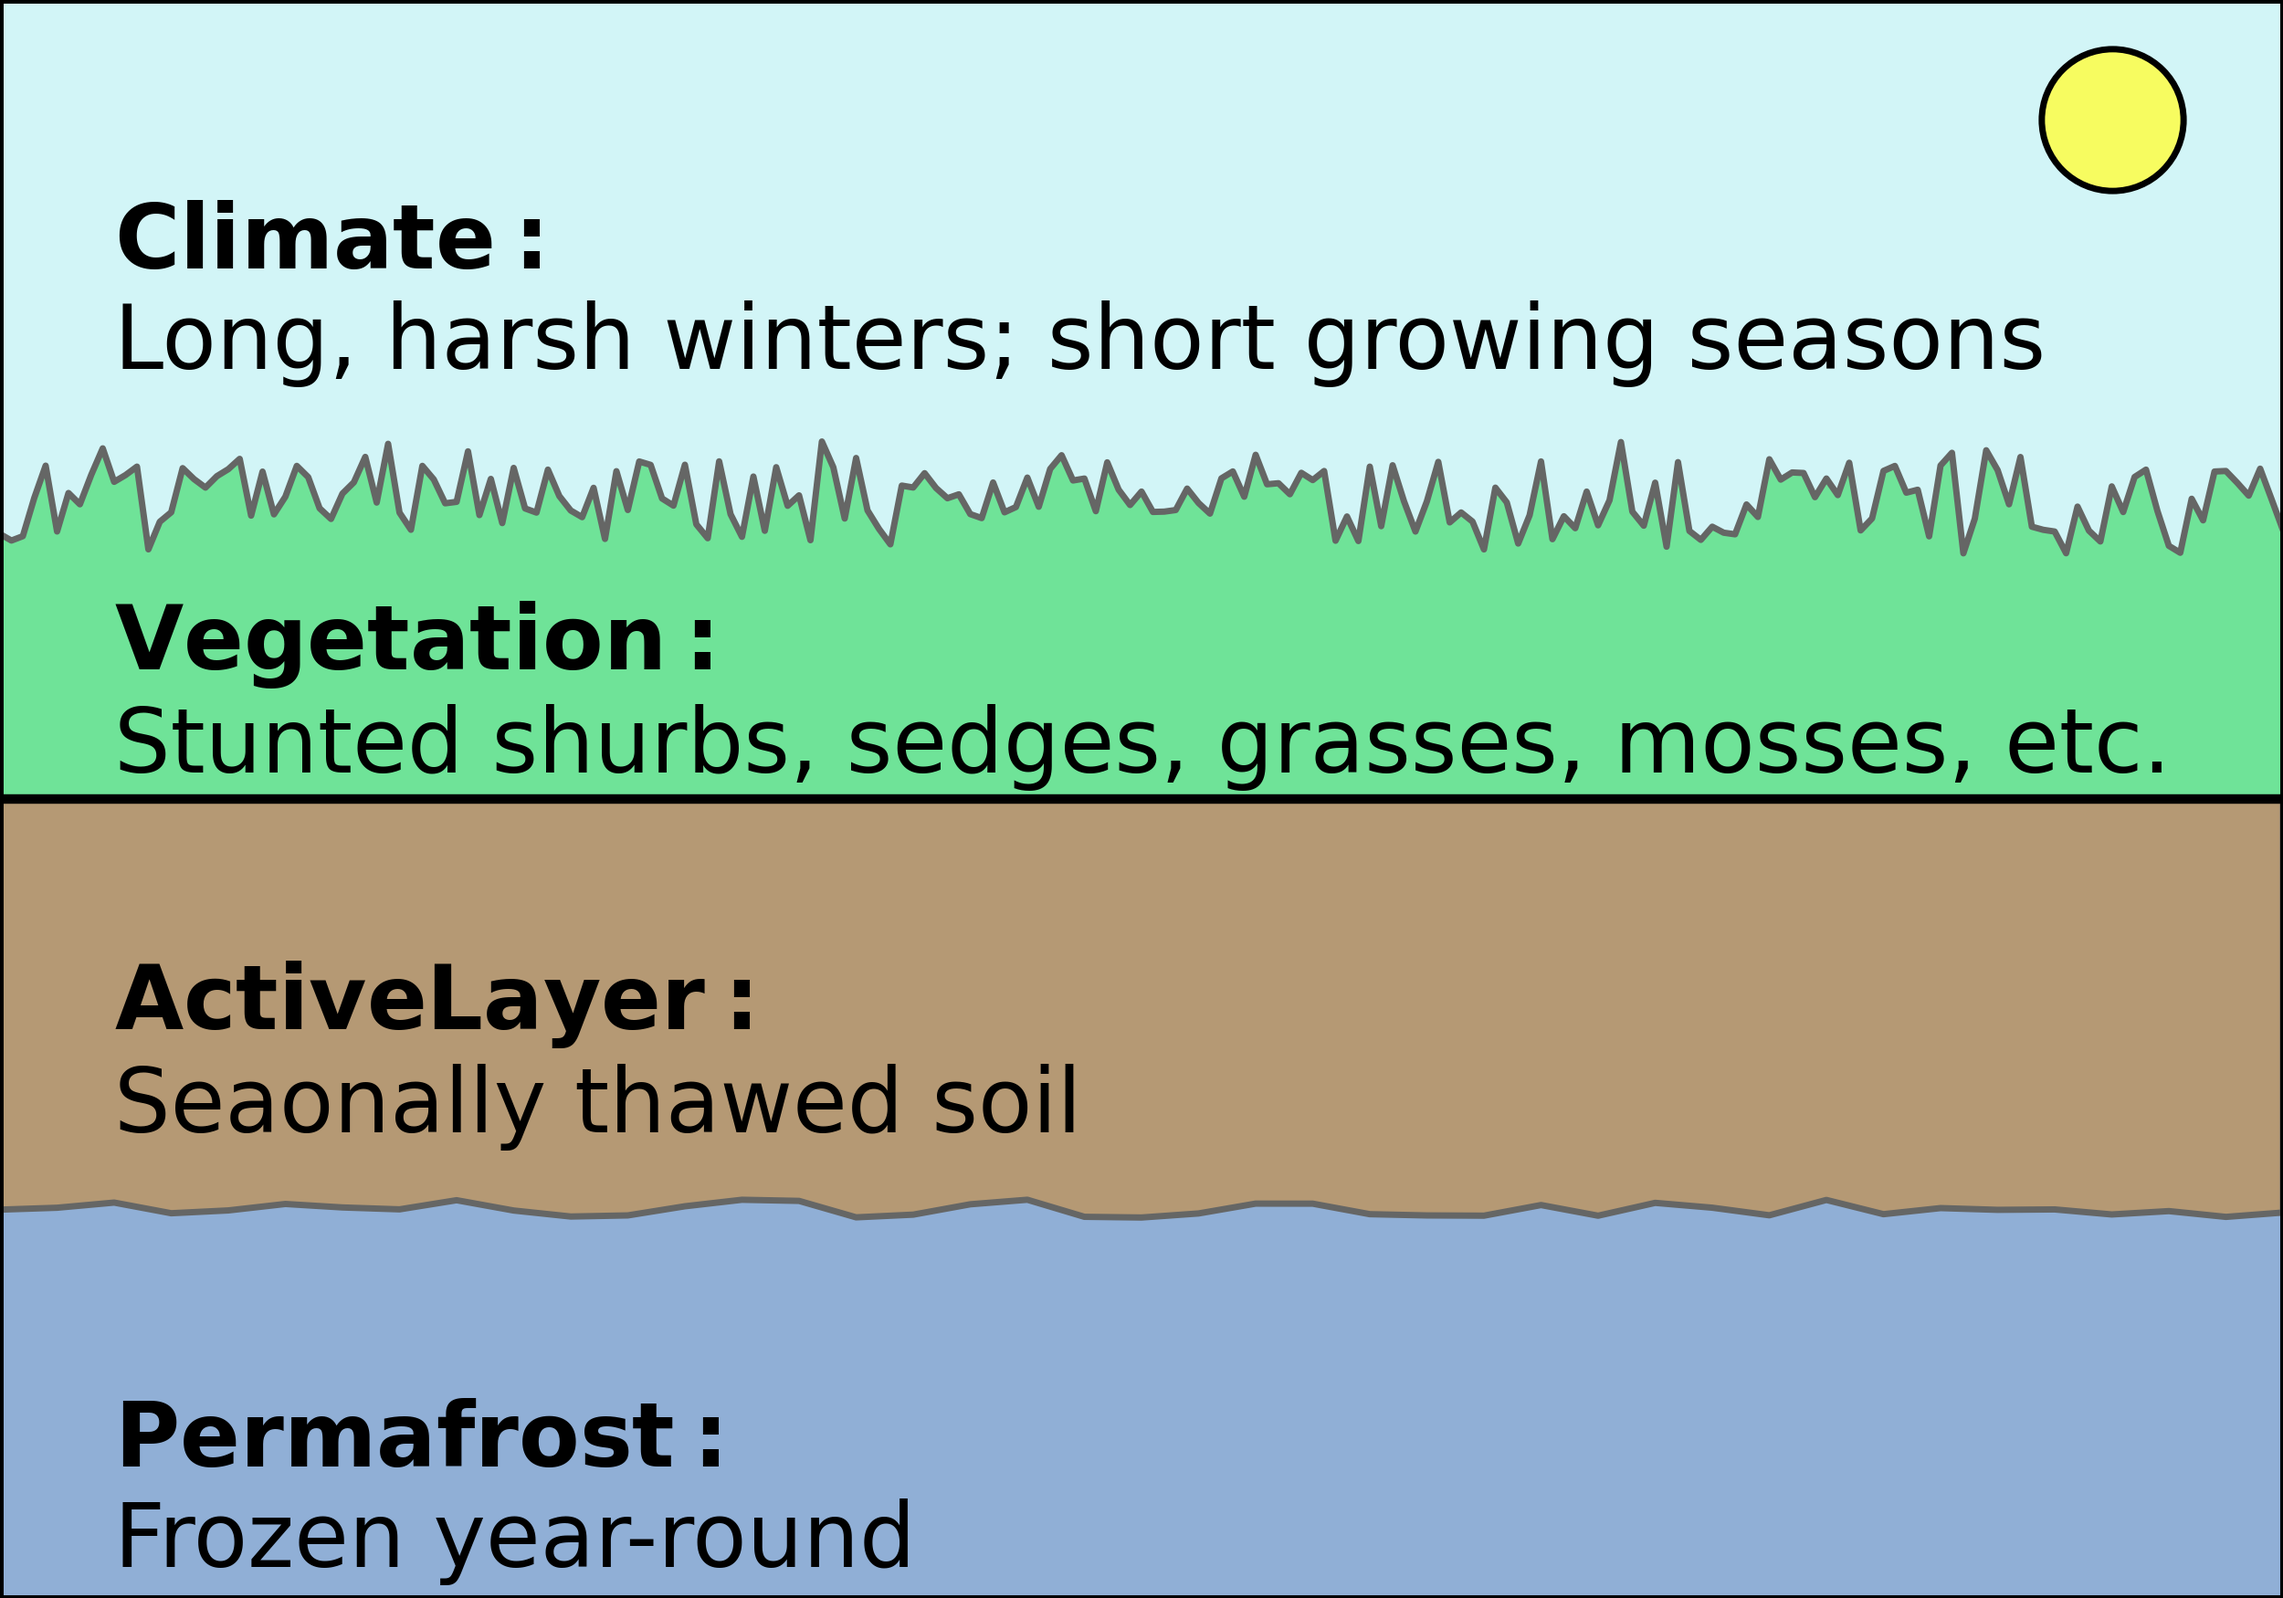
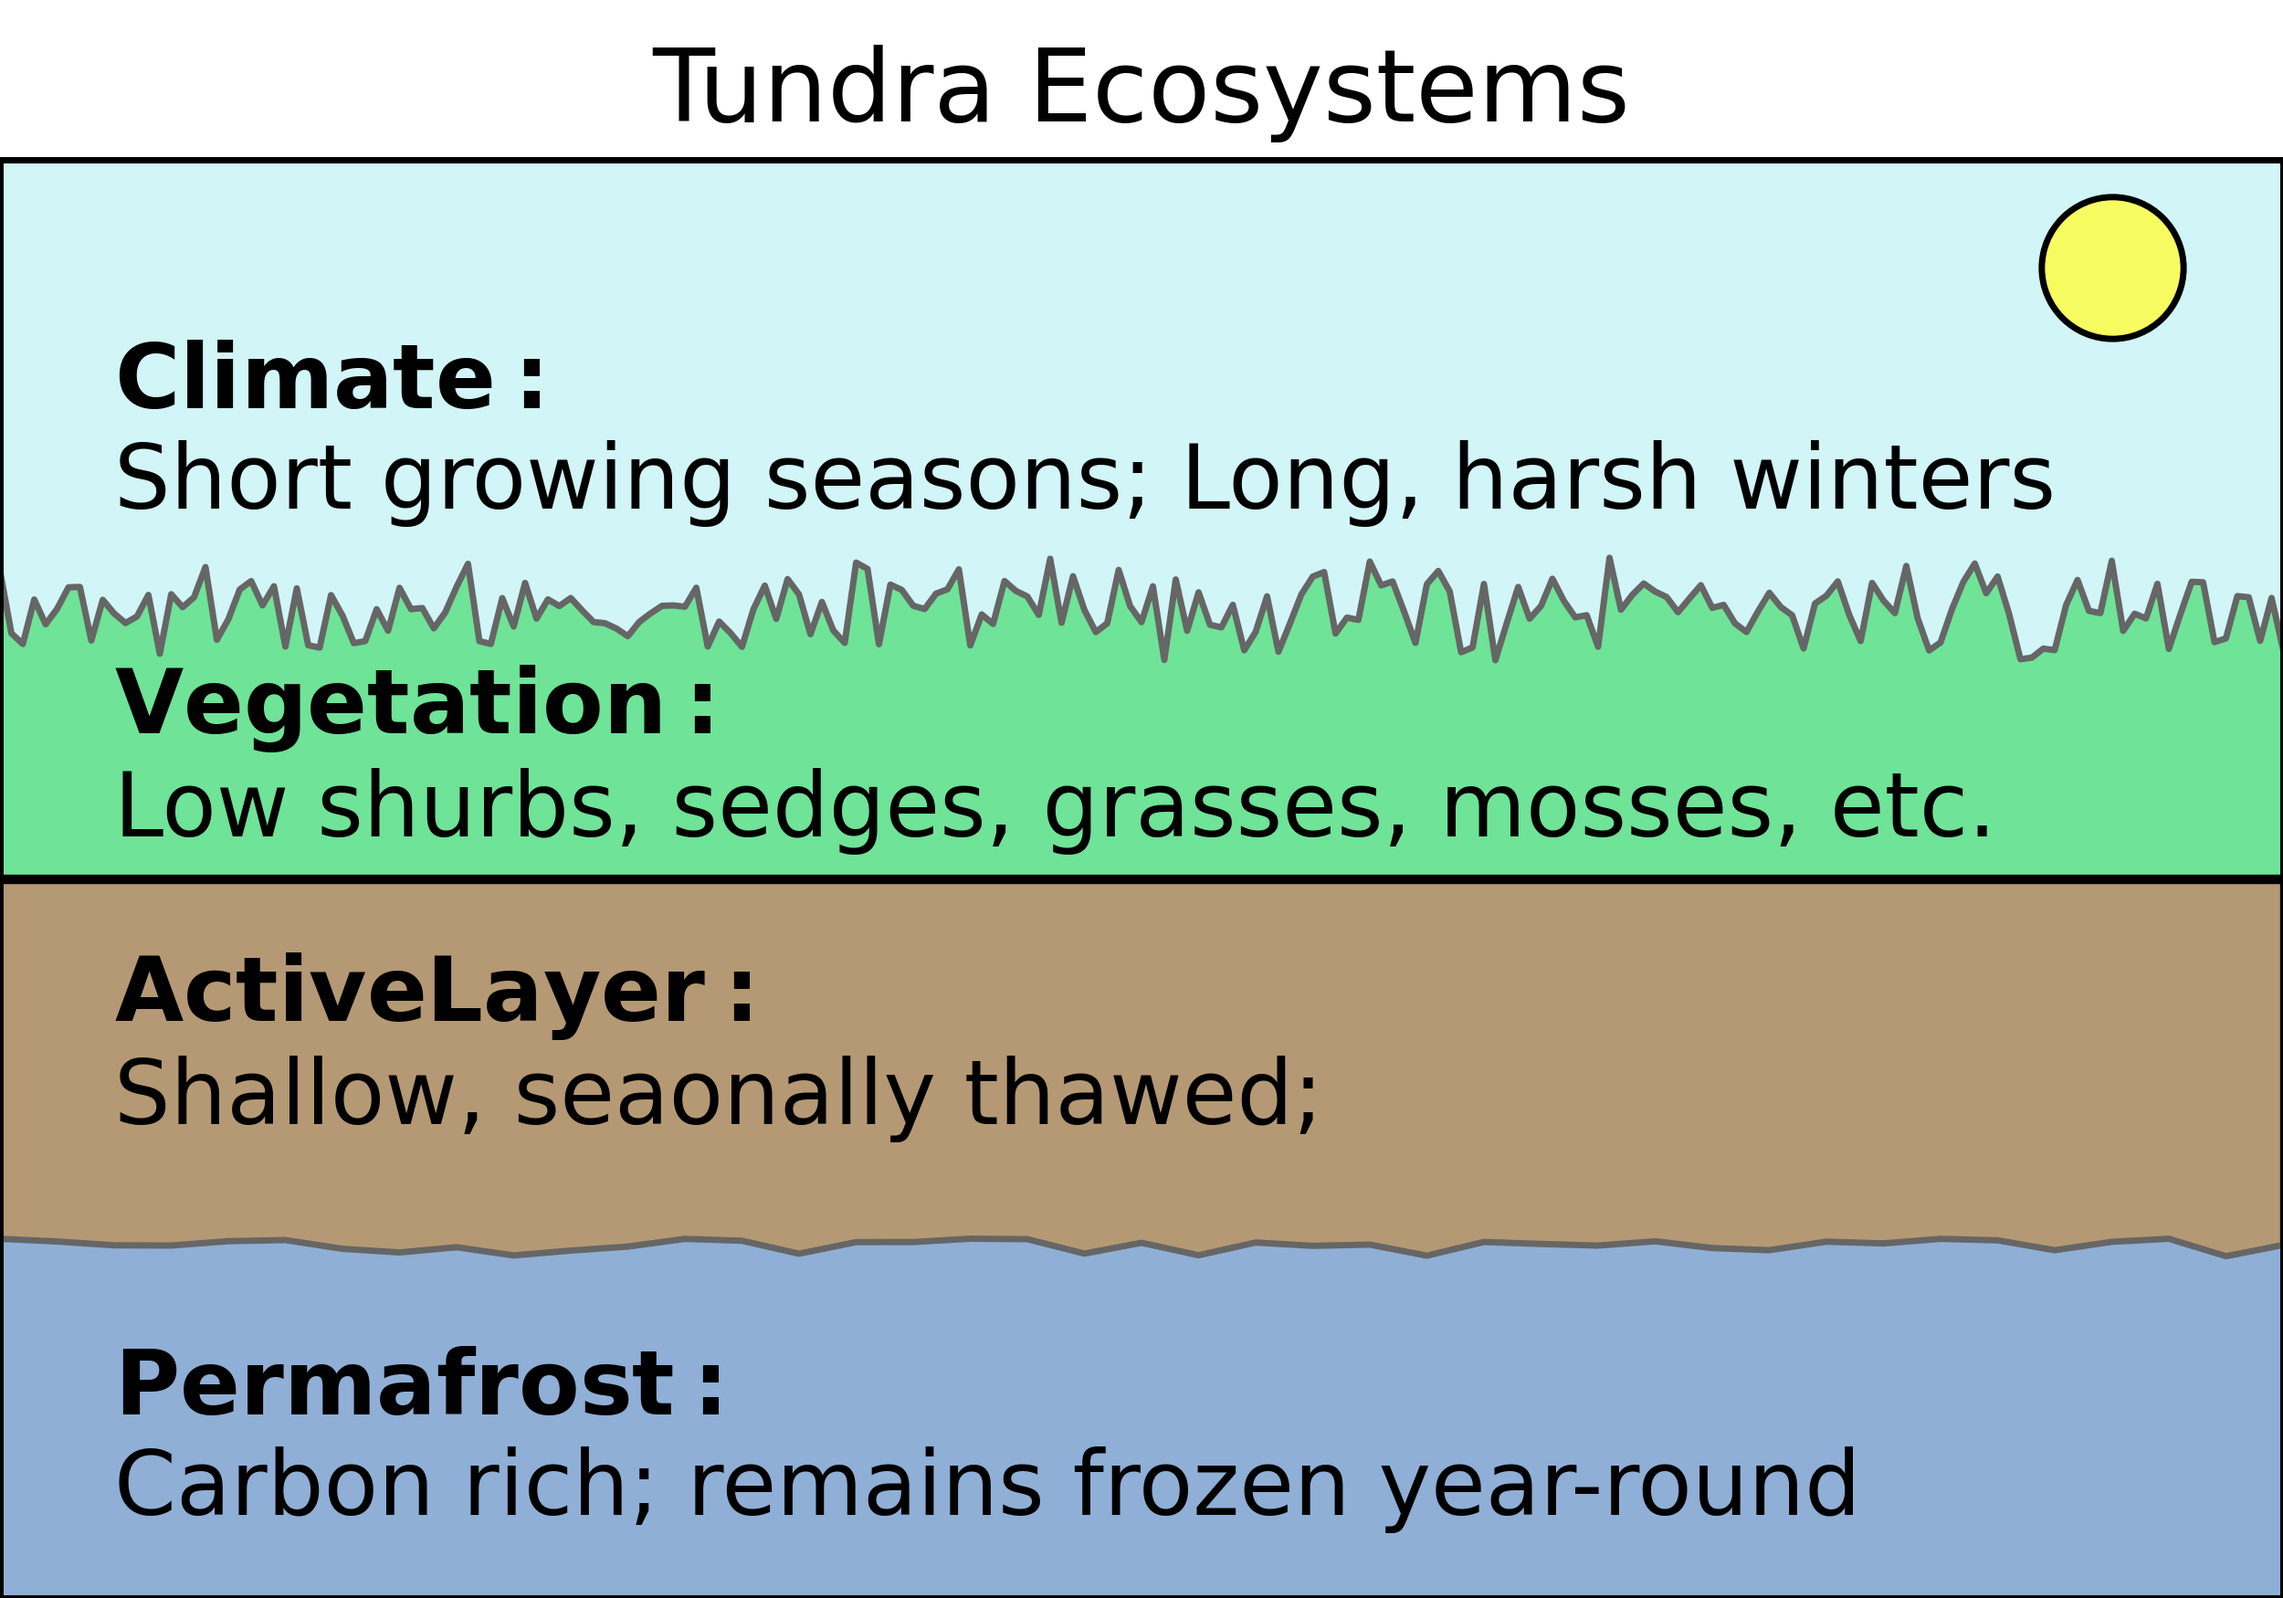
Intro

diff --git a/Defense.html b/Defense.html
@@ -186,7 +186,7 @@ li.nl:before {
 
       <section>
         <div class="container">
-        <h1 class="header1">Introduction: Background</h1>
+        <h1 class="header1">Introduction: Framing the Problem</h1>
           <div class="left">
             <p><u>Arctic amplification</u> is causing rapid climate change at high latitudes.</p>
             <ul>
@@ -195,7 +195,6 @@ li.nl:before {
               <li>Longer growing seasons</li>
               <li>Permafrost degradation</li>
             </ul>
-            <!-- <p><u>Tundra ecosystems:</u> are particularly vulnerable to climate change.</p> -->
           </div>
           <div class="right_fig">
             <img src="images/CMIP.png" width="100%"; style = "border:2px solid #555">
@@ -204,16 +203,14 @@ li.nl:before {
 
       <section>
         <div class="container">
-        <h1 class="header1">Introduction: Background</h1>
+        <h1 class="header1">Introduction: Framing the Problem</h1>
           <div class="left">
-            <p><u>Arctic amplification</u> is causing rapid climate change at high latitudes.</p>
+            <!-- <p><u>Arctic amplification</u> is causing rapid climate change at high latitudes.</p> -->
+            <p><u>Tundra ecosystems</u> are particularly vulnerable to climate change.</p>
             <ul>
-              <li>Changing precipitation patterns</li>
-              <li>Decreased snow and ice cover</li>
-              <li>Longer growing seasons</li>
-              <li>Permafrost degradation</li>
+              <li><u>Permafrost degradation:</u> destabilizes "fossil" carbon which has been accumulating for millennia.</li>
+              <li><u>Tundra greening:</u> increases rates of carbon uptake, but also increases rates of C turnover.</li>
             </ul>
-            <p><u>Tundra ecosystems:</u> are particularly vulnerable to climate change.</p>
           </div>
           <div class="right_fig">
             <img src="images/Tundra.png" width="700"; style = "border:2px solid #555">
@@ -227,7 +224,7 @@ li.nl:before {
             <p>Warming can drastically alter ecosystem scale carbon balances.</p>
             <ul>
               <li><u>Permafrost degradation:</u> destabilizes "fossil" carbon which has been accumulating for millennia.</li>
-              <li><u>Tundra greening:</u> </li>
+              <li><u>Tundra greening:</u> increases rates of carbon uptake, but also increases rates of C turnover.</li>
             </ul>
             <!-- <img src="images/CMIP.png" width="700"; style = "border:2px solid #555";> -->
           </div>
